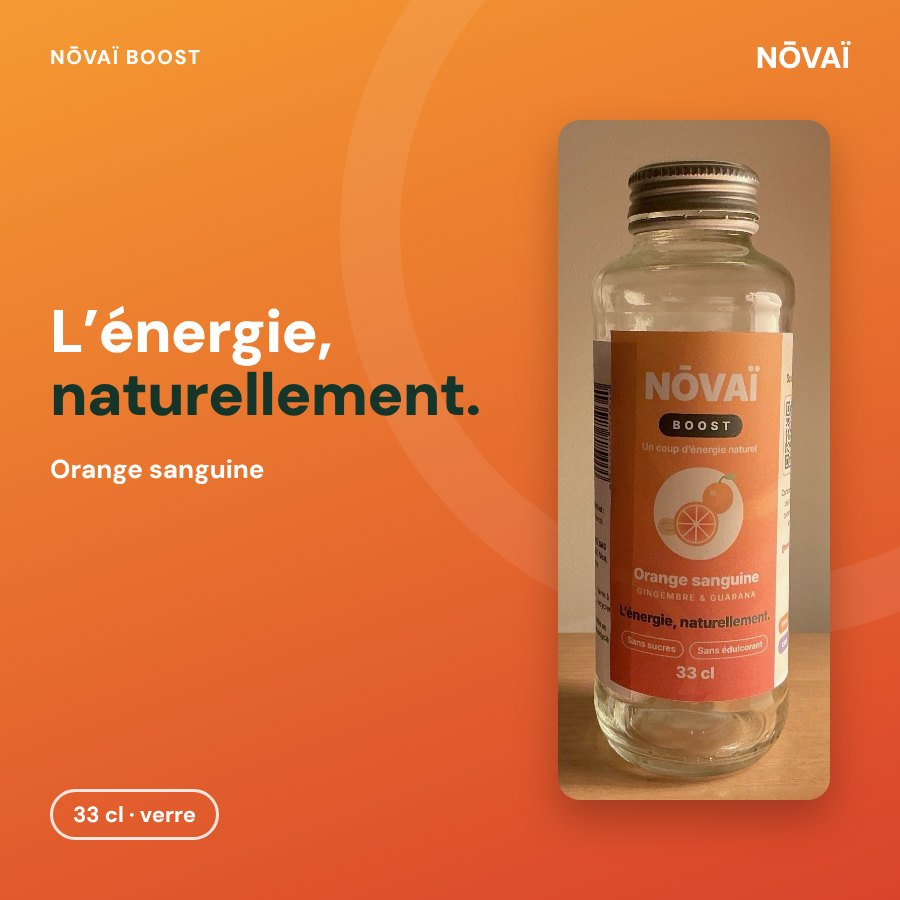
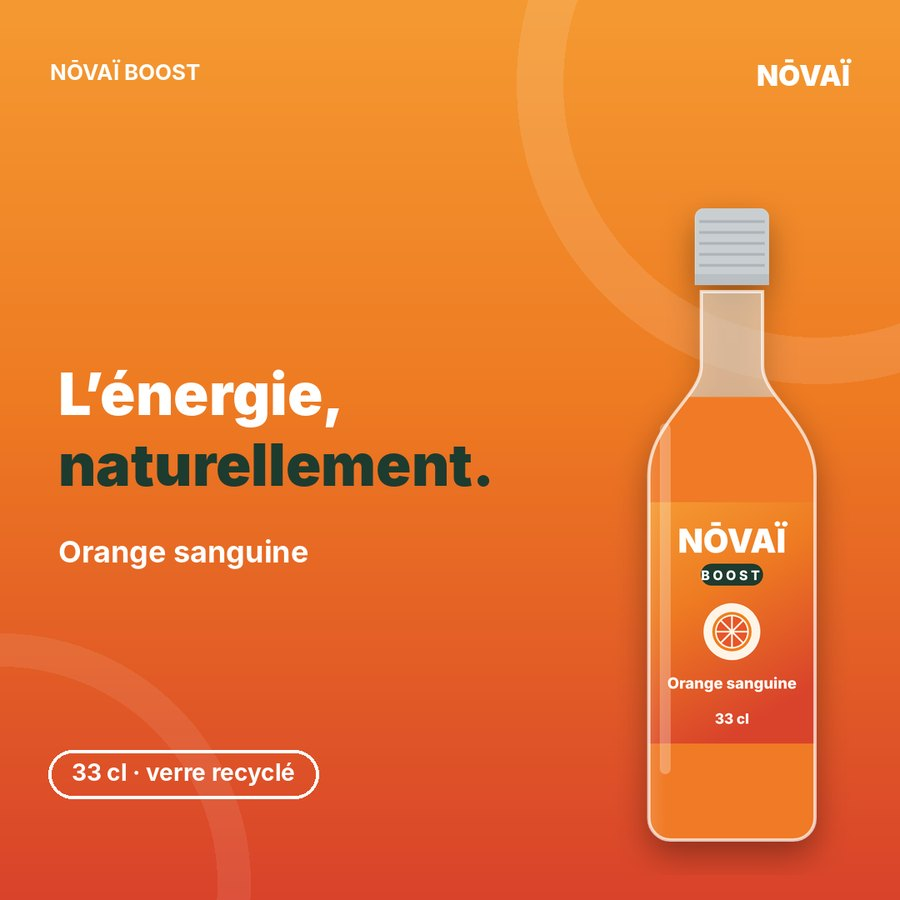
Retour aux bouteilles illustrées ; slogan CALM : « La sérénité, naturellement. »
Claude-Session: https://claude.ai/code/session_01WrZG4h9xQXLHYbkowRCxUC

diff --git a/index.html b/index.html
@@ -46,7 +46,6 @@
   .hero .sub { font-weight: 600; font-size: .76rem; letter-spacing: .16em; opacity: .92; margin-top: 6px; }
   .hero .slogan { font-weight: 800; font-size: 1.12rem; margin-top: 14px; color: var(--vert); }
   .bottle { width: 118px; height: auto; display: block; filter: drop-shadow(0 10px 14px rgba(0,0,0,.18)); }
-  img.bphoto { aspect-ratio: 2 / 5; object-fit: cover; border-radius: 12px; background: #e9e2d8; }
   .chips { display: flex; flex-wrap: wrap; gap: 8px; margin-top: 16px; position: relative; z-index: 1; }
   .chip { background: rgba(255,255,255,.18); border: 1px solid rgba(255,255,255,.5); color: #fff; font-weight: 600; font-size: .8rem; padding: 6px 12px; border-radius: 999px; }
 
@@ -934,7 +933,7 @@
 const LINES = {
   boost:    { name: "BOOST",    need: "L’énergie",        benefit: "Un coup d’énergie naturel",   c: ["#F59A32", "#EE7A22", "#D9432B"], tint: "#FFF4E8", word: "L’énergie" },
   focus:    { name: "FOCUS",    need: "La concentration", benefit: "Pour rester concentré",       c: ["#5AA5EE", "#3F7FD0", "#2A55A8"], tint: "#EAF2FC", word: "La concentration" },
-  calm:     { name: "CALM",     need: "La détente",       benefit: "Un moment de détente",        c: ["#B08CE4", "#8E62C9", "#653FA8"], tint: "#F2ECFA", word: "Le calme" },
+  calm:     { name: "CALM",     need: "La détente",       benefit: "Un moment de détente",        c: ["#B08CE4", "#8E62C9", "#653FA8"], tint: "#F2ECFA", word: "La sérénité" },
   recovery: { name: "RECOVERY", need: "L’hydratation",    benefit: "Hydratation et récupération", c: ["#5FC57E", "#3E9E5C", "#2B7A45"], tint: "#EAF6EE", word: "La récupération" }
 };
 
@@ -1119,7 +1118,32 @@ function fruitSVG(f, cx, cy, r) {
 
 function bottleSVG(p, sfx = "") {
   const L = LINES[p.line];
-  return `<img class="bottle bphoto" src="images/bouteilles/${p.id}.jpg" alt="Bouteille NŌVAÏ ${L.name} ${esc(p.flavour)}" loading="lazy">`;
+  const gid = "g" + p.id + sfx;
+  return `<svg class="bottle" viewBox="0 0 120 300" role="img" aria-label="Bouteille NŌVAÏ ${L.name} ${esc(p.flavour)}">
+    <defs>
+      <linearGradient id="${gid}" x1="0" y1="0" x2=".4" y2="1"><stop offset="0" stop-color="${L.c[0]}"/><stop offset=".45" stop-color="${L.c[1]}"/><stop offset="1" stop-color="${L.c[2]}"/></linearGradient>
+      <linearGradient id="glass${gid}" x1="0" x2="1"><stop offset="0" stop-color="#fff" stop-opacity=".45"/><stop offset=".25" stop-color="#fff" stop-opacity="0"/><stop offset=".8" stop-color="#000" stop-opacity="0"/><stop offset="1" stop-color="#000" stop-opacity=".18"/></linearGradient>
+      <clipPath id="clip${gid}"><path d="M46 44h28v34c0 14 24 26 24 50v156a10 10 0 0 1-10 10H32a10 10 0 0 1-10-10V128c0-24 24-36 24-50z"/></clipPath>
+    </defs>
+    <rect x="43" y="6" width="34" height="34" rx="4" fill="#C9CED1"/>
+    <g stroke="#AEB4B8" stroke-width="1.2">${[12, 17, 22, 27, 32].map(y => `<line x1="45" y1="${y}" x2="75" y2="${y}"/>`).join("")}</g>
+    <rect x="43" y="36" width="34" height="5" fill="#B9BFC3"/>
+    <g clip-path="url(#clip${gid})">
+      <rect x="0" y="40" width="120" height="260" fill="#EAF0EE" opacity=".55"/>
+      <rect x="0" y="92" width="120" height="210" fill="${p.liquid}"/>
+      <rect x="22" y="140" width="76" height="110" fill="url(#${gid})"/>
+      <rect x="0" y="40" width="120" height="260" fill="url(#glass${gid})"/>
+    </g>
+    <path d="M46 44h28v34c0 14 24 26 24 50v156a10 10 0 0 1-10 10H32a10 10 0 0 1-10-10V128c0-24 24-36 24-50z" fill="none" stroke="rgba(255,255,255,.7)" stroke-width="1.5"/>
+    <text x="60" y="163" text-anchor="middle" font-family="Inter, sans-serif" font-weight="900" font-size="15" fill="#fff">NŌVAÏ</text>
+    <rect x="${60 - (L.name.length * 3.9 + 9) / 2}" y="168" width="${L.name.length * 3.9 + 9}" height="10" rx="5" fill="#1E3B2F"/>
+    <text x="60" y="175.6" text-anchor="middle" font-family="Inter, sans-serif" font-weight="800" font-size="6" letter-spacing="1.4" fill="#fff">${L.name}</text>
+    <circle cx="60" cy="199" r="13" fill="#FFF4E8"/>
+    ${fruitSVG(p.fruit, 60, 199, 9)}
+    <text x="60" y="225" text-anchor="middle" font-family="Inter, sans-serif" font-weight="800" font-size="${p.flavour.length > 13 ? 7 : 8}" fill="#fff">${esc(p.flavour)}</text>
+    <text x="60" y="241" text-anchor="middle" font-family="Inter, sans-serif" font-weight="800" font-size="6.5" fill="#fff">33 cl</text>
+    <rect x="27" y="104" width="5" height="160" rx="2.5" fill="#fff" opacity=".28"/>
+  </svg>`;
 }
 
 function render() {
